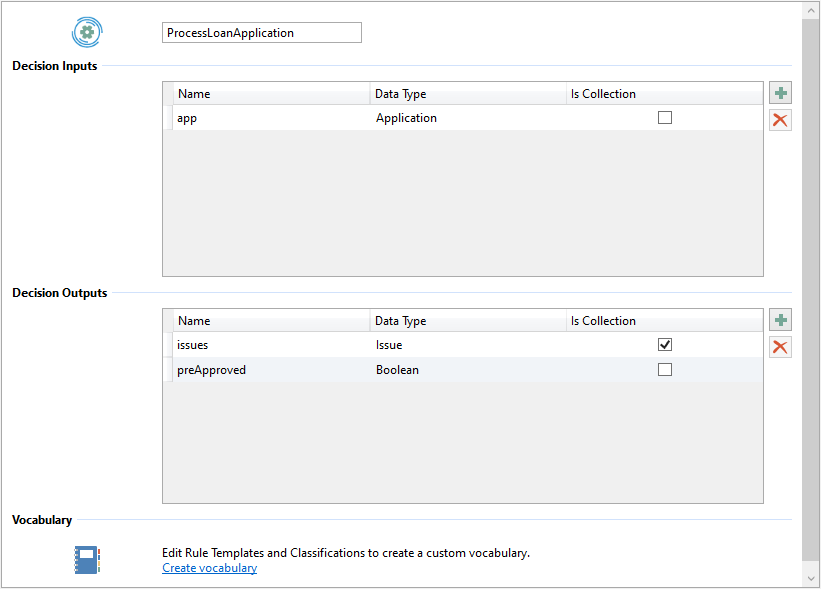
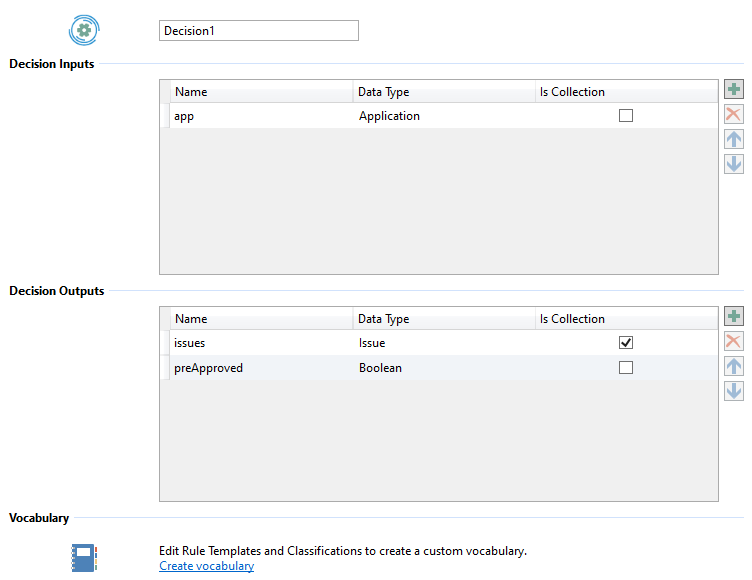
Updated decision documentation for InRule v5.6.0.
SEAL-2372: Update the existing Decisions documentation

diff --git a/Authoring Samples/Decisions/execute-decision.md b/Authoring Samples/Decisions/execute-decision.md
@@ -1,130 +1,11 @@
 Executing a Decision
 ====
 
-# Overview
+The irServer Rule Execution Service can execute Decisions either via the SOAP or REST end points.
 
-Once a Decision has been published to a Decision Runtime, it is available for execution as a Decision Service.
+See the irSDK developer documentation on how to execute Decisions:
 
-The base URL of the Decision Runtime will be the same URL used when the Decision was published.
-
-OpenAPI documents are available, which provide details of the URLs and JSON data structures for publishing and executing Decision Services.
-
-For example, if the base URL is:
-
-    https://myorg-decisions.inrulecloud.com/
-
-The OpenAPI 2.0 and 3.0 Specification documents for publishing would be:
-
-    https://myorg-decisions.inrulecloud.com/api/openapi_v2.0.json
-    https://myorg-decisions.inrulecloud.com/api/openapi_v3.0.json
-
-The OpenAPI 2.0 and 3.0 Specification documents for executing published Decision Services would be:
-
-    https://myorg-decisions.inrulecloud.com/api/decisions/openapi_v2.0.json
-    https://myorg-decisions.inrulecloud.com/api/decisions/openapi_v3.0.json
-
-These documents can be used by Swagger, Postman, or proxy generators for publishing and executing Decision Services.
-
-# Publication/Execution API via Swagger/OpenAPI Specification
-
-The Swagger test page would be accessed at the following URL:
-
-    https://myorg-decisions.inrulecloud.com/openapi/
-
-This explicitly lists all Decision Services available for execution, along with their associated schemas and example input/output JSON.
-
-![Execute Decision Swagger Operations](images/ExecuteDecision-SwaggerExecuteDecisions.png)
-
-The Decision Runtime uses OAuth 2.0 for authentication. Before using this interface, user credentials must be authenticated using the 'Authorize' button on the page.
-
-![Execute Decision Authorize Button](images/ExecuteDecision-AuthorizeButton.png)
-
-To authorize the Swagger page, a 'client_id' will be required before the authentication window appears. Please contact [InRule Support](mailto:support@inrule.com)  for this client id.
-
-In addition to the 'Execution API', there is also a 'Publishing API' Swagger page that can be found in the drop-down menu at the top-right of the page:
-
-![Select a definition drop down](images/ExecuteDecision-PublishedDecisionsDropDown.png)
-    
-The following operations are possible:
-
-- List published Decisions
-- Publish a Decision
-- Get a Decision (Only confirms the name - Does not permit download of rule application)
-- Delete a Decision
-
-![Execute Decision Swagger Operations](images/ExecuteDecision-SwaggerOperations.png)
-
-*Note: This page also requires authorization.*
-
-# Execution API via Postman
-
-Postman offers an alternative mechanism for testing the Decision Services publication and execution API.
-
-## Import OpenAPI Configuration
-
-Using the Import functionality of the Postman application, the OpenAPI Specification document for executing Decision Services can be imported.
-
-![Execute Decision Postman Import OpenAPI](images/ExecuteDecision-PostmanImportOpenAPI.png)
-
-Enable the 'Generate a Postman Collection' option:
-
-![Execute Decision Postman Import OpenAPI](images/ExecuteDecision-PostmanImportOptions.png)
-
-After importing the OpenAPI specification, the Decision Services will be available in the collections list:
-
-![Execute Decision Postman CollectionsI](images/ExecuteDecision-PostmanCollections.png)
-
-Double-clicking one of the Decisions will open the form for the POST request.
-
-## Authorization
-
-Before sending the request to execute the Decision Service, the authorization header must be configured with a bearer token. This is retrieved from the OAuth 2.0 authentication service.
-
-Click the 'Authorization' tab and then click the 'Get New Access Token' button. Fill out the new token form using the following values:
-
-- Token Name: `[Any friendly name for the auth token]`
-- Grant Type: `Implicit`
-- Callback URL: `https://www.getpostman.com/oauth2/callback`
-- Auth URL: `https://auth.inrulecloud.com/authorize`
-- Client ID: `[Contact InRule Support for the Client ID to use with Postman]`
-- Scope: `[Leave empty]`
-- State: `[Leave empty]`
-- Client Authentication: `Send as Basic Auth header`
-
-![Execute Decision Postman New Token](images/ExecuteDecision-PostmanNewToken.png)
-
-Clicking the 'Request Token' button should retrieve a valid bearer token for use in the POST request's authorization header. Scroll down the dialog window containing the bearer token, and click the 'Use Token' button to apply it to the request.
-
-![Execute Decision Postman Bearer Token](images/ExecuteDecision-PostmanBearerToken.png)
-
-## Configuring Inputs
-
-Click the 'Body' tab on the request and it will display a sample JSON data structure illustrating the data types to use for each input.
-
-    {
-        "PresentValue": "<number>",
-        "InterestRate": "<number>",
-        "Periods": "<integer>"
-    }
-
-Change the values of the inputs to reflect the desired test values:
-
-    {
-        "PresentValue": 20000.00,
-        "InterestRate": 0.05,
-        "Periods": 5
-    }
-
-## Executing the Decision Service
-
-Once the authorization header is configured with the bearer token and the inputs are populated, simply click the 'Send' button to execute the Decision Service.
-
-![Execute Decision Postman Response](images/ExecuteDecision-PostmanResponse.png)
-
-The repsonse panel should contain the outputs of the Decision.
-
-If the response 'Status' says `200 OK` then the Decision Service was executed successfully.
-
-# Author-Publish-Execute Code Sample
-
-For an example application that programmatically authors, publishes, and executes a Decision Service, please see the [ExecuteDecisionSample](../../Developer%20Samples/ExecuteDecisionSample) developer sample.
+- Application Integration with InRule
+    - -> irServer® - Rule Execution Service
+        - Executing a Decision on irServer SOAP endpoint using a Service Reference
+        - Execute Decision Sample Request and Response Formats

diff --git a/Authoring Samples/Decisions/README.md b/Authoring Samples/Decisions/README.md
@@ -3,9 +3,9 @@ Decision Services
 
 Decision Services is the newest member of InRule®'s Decision Platform. It provides an improved decision-centric model for authoring and executing rules, as well as an integration model that is standards-based that does not require deep knowledge of our SDK.
 
-A Decision in Decision Services is an entry point into rule exection. It consists of a set of inputs, rules that execute against those inputs, and a set of ouputs that reflect the result. Those inputs, outputs, and rules are author-defined, ultimately providing rule authors flexibility of shaping the input and output signature used during runtime execution.
+A Decision is an entry point into rule exection. It consists of a set of inputs, rules that execute against those inputs, and a set of ouputs that reflect the result. Those inputs, outputs, and rules are author-defined, ultimately providing rule authors flexibility of shaping the input and output signature used during runtime execution.
 
-Once authored is complete, Decisions can be tested in irVerify and subsequently published to a Decision Runtime for remote execution via a RESTful API. The Decision Runtime provides an OpenAPI (formerly known as Swagger) document which is a programming language-agnostic description on how to execute the published Decisions, including each Decision's required input and output result.
+Once authored is complete, Decisions can be tested in irVerify and subsequently consumed by the Rule Execution Service for remote execution via a RESTful API.
 
 # Prerequisites
 
@@ -13,26 +13,11 @@ Before you get started, you'll need to make sure you have the following:
 
 * For authoring and testing Decisions, [irAuthor 5.5.0](https://support.inrule.com/downloads.aspx) or greater.
 
-* For publishing and executing Decisions, access to a [Decision Runtime Service](#decision-runtime-service) using [Centralized Authentication](#centralized-authentication). Please contact [InRule Support](mailto:support@inrule.com) to request access.
-
-### Decision Runtime Service
-
-The Decision Runtime Service is responsible for storing and executing published Decisions. It also provides several OpenAPI documents based on the [OpenAPI specification](https://www.openapis.org/) (both [2.0](https://github.com/OAI/OpenAPI-Specification/blob/master/versions/2.0.md) and [3.0](https://github.com/OAI/OpenAPI-Specification/blob/master/versions/3.0.2.md)) as well as a [SwaggerUI](https://swagger.io/tools/swagger-ui/) interface. This allows integration with 3rd party tools like [Postman](https://www.getpostman.com/) or generating client code based on your published decisions.
-
-### Centralized Authentication
-
-Instead of relying on an irCatalog instance for authentication, InRule's hosted Decision Runtime Service integrates with its Centralized Authentication solution (running on the [Auth0](https://auth0.com/) platform). This authentication solution provides customers the ability to authenticate using external authentication providers including Azure Active Directory or any OpenID Connect compatible provider. 
-
 # Getting Started
 
 - [Authoring a Decision](author-decision.md)
 - [Testing a Decision](test-decision.md)
-- [Publishing a Decision](publish-decision.md)
 - [Executing a published Decision](execute-decision.md)
-
-# Integrations
-
-- [Power Automate (previously Microsoft Flow)](integrations/power-automate.md)
 
 # Notes
 
@@ -40,7 +25,7 @@ InRule v5.5.0 includes additional classes in irSDK® to support Decisions. To ma
 
 This removes the need to running a feature version upgrade on irCatalog to use these new features.
 
-Additionally the restriction on unique Entity Rule Set names has been removed, so long as they don't collide with existing Independent Rule Sets. This allows Rul eSets with the same names to exist under both Entities and Decisions.
+Additionally the restriction on unique Entity Rule Set names has been removed, so long as they don't collide with existing Independent Rule Sets. This allows Rule Sets with the same names to exist under both Entities and Decisions.
 
 # Limitations
 

diff --git a/Authoring Samples/Decisions/test-decision.md b/Authoring Samples/Decisions/test-decision.md
@@ -1,6 +1,6 @@
 # Testing a Decision
 
-irVerify may be used to test a Decision before it is published.
+irVerify may be used to test a Decision.
 
 Clicking the 'Test' button on the 'Home' tab will launch irVerify if the item selected in the navigation panel is a Decision or a Rule Set or Rule under a Decision. If the down arrow under the 'Test' button is clicked, a specific Decision may be selected from the drop-down menu.
 
